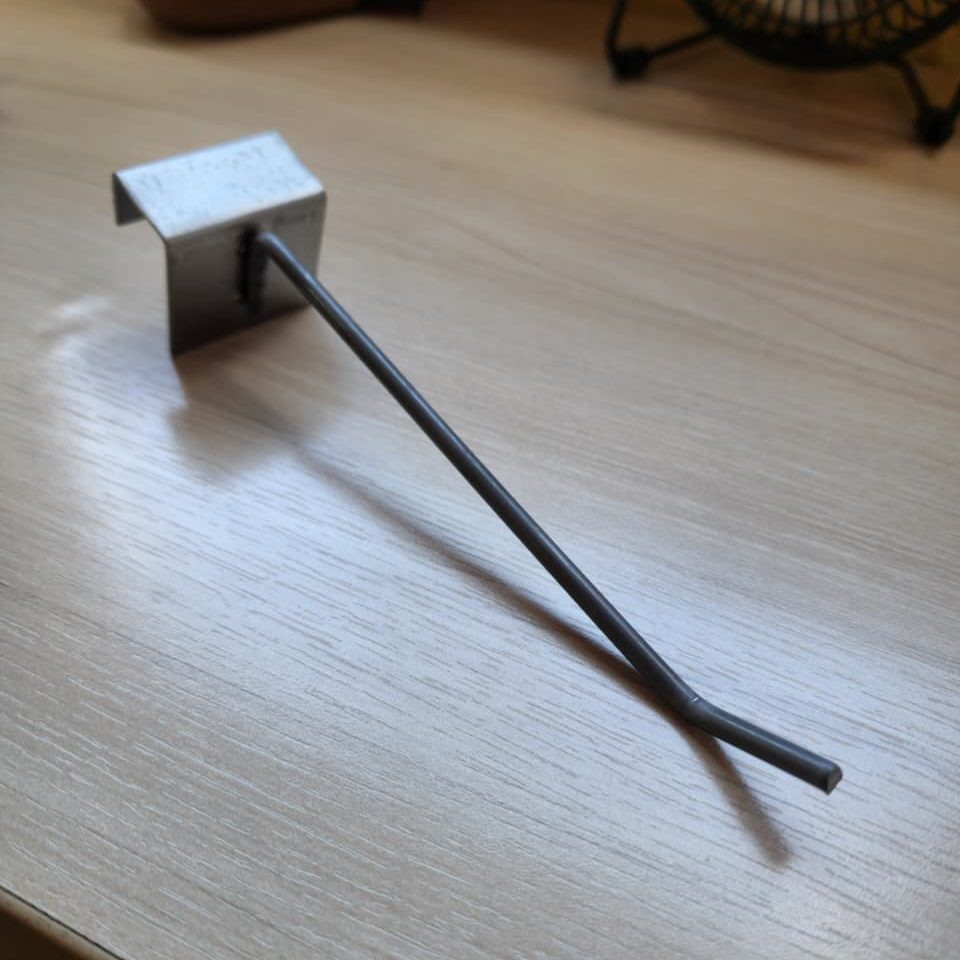
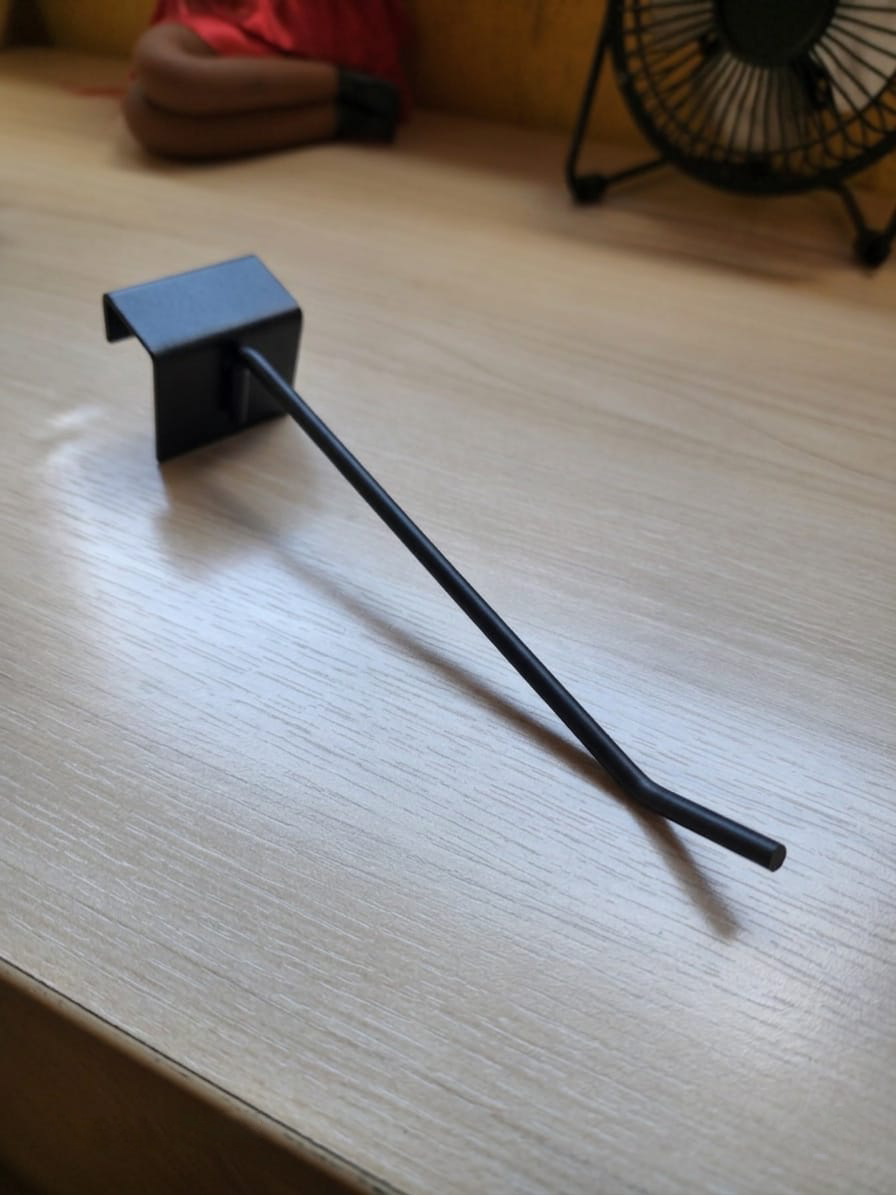
fix: padronizando as fotos de ganchos

diff --git a/src/data/produtos.js b/src/data/produtos.js
@@ -98,10 +98,10 @@ const rawData = [
         codigo: 'GPB-440',
         img: '/midia/gancho/gancho-gondola/gancho-440mm-25cm-prateado',
         variants: [
-          { cor: 'BRANCO', tamanho: '15 CM', price: 2.10, img: '/midia/gancho/gancho-gondola/gancho-canaletado-15cm-440mm-preto' },
+          { cor: 'BRANCO', tamanho: '15 CM', price: 2.10, img: '/midia/gancho/gancho-gondola/gancho-canaletado-15cm-440mm-branco' },
           { cor: 'PRETO', tamanho: '15 CM', price: 2.10, img: '/midia/gancho/gancho-gondola/gancho-canaletado-15cm-440mm-preto' },
-          { cor: 'BRANCO', tamanho: '20 CM', price: 2.50, img: '/midia/gancho/gancho-gondola/gancho-canaletado-20cm-440mm-prata' },
-          { cor: 'PRETO', tamanho: '20 CM', price: 2.50, img: '/midia/gancho/gancho-gondola/gancho-canaletado-20cm-440mm-prata' },
+          { cor: 'BRANCO', tamanho: '20 CM', price: 2.50, img: '/midia/gancho/gancho-gondola/gancho-canaletado-20cm-440mm-branco' },
+          { cor: 'PRETO', tamanho: '20 CM', price: 2.50, img: '/midia/gancho/gancho-gondola/gancho-canaletado-20cm-440mm-preto' },
           { cor: 'BRANCO', tamanho: '25 CM', price: 2.80, img: '/midia/gancho/gancho-gondola/gancho-440mm-25cm-prateado' },
           { cor: 'PRETO', tamanho: '25 CM', price: 2.80, img: '/midia/gancho/gancho-gondola/gancho-440mm-25cm-prateado' },
         ]
